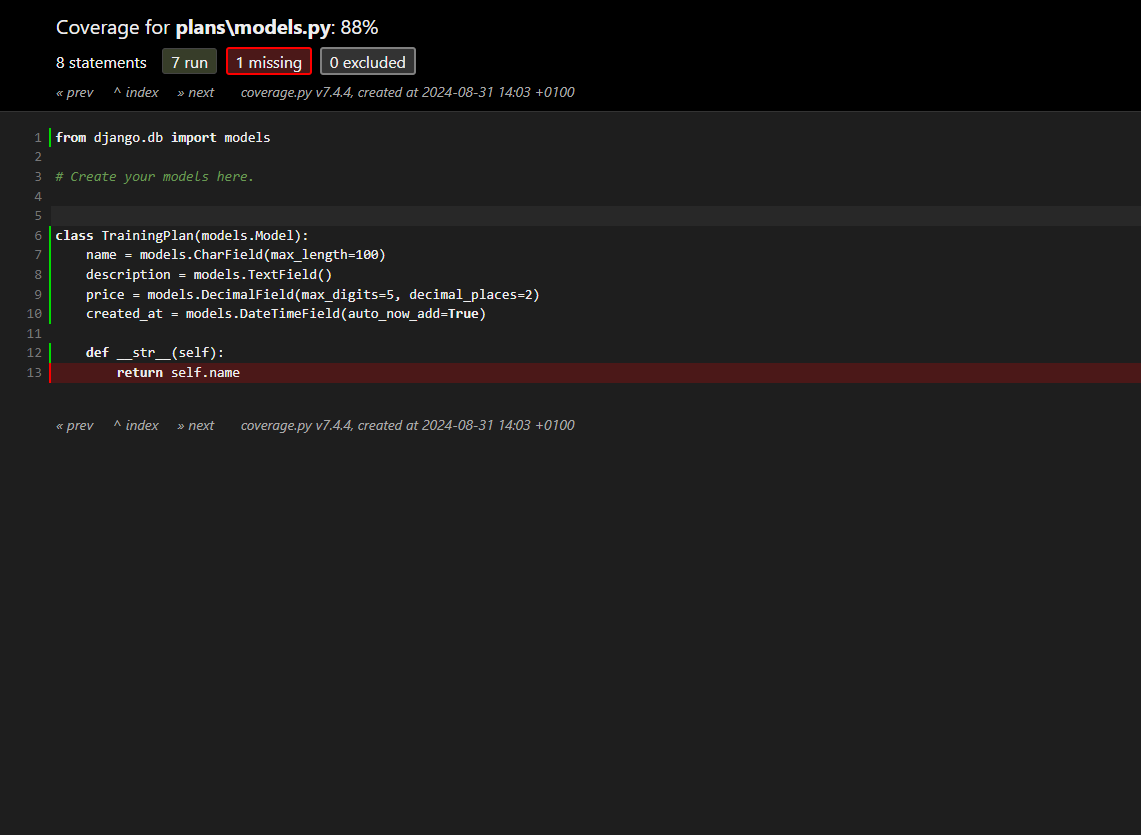
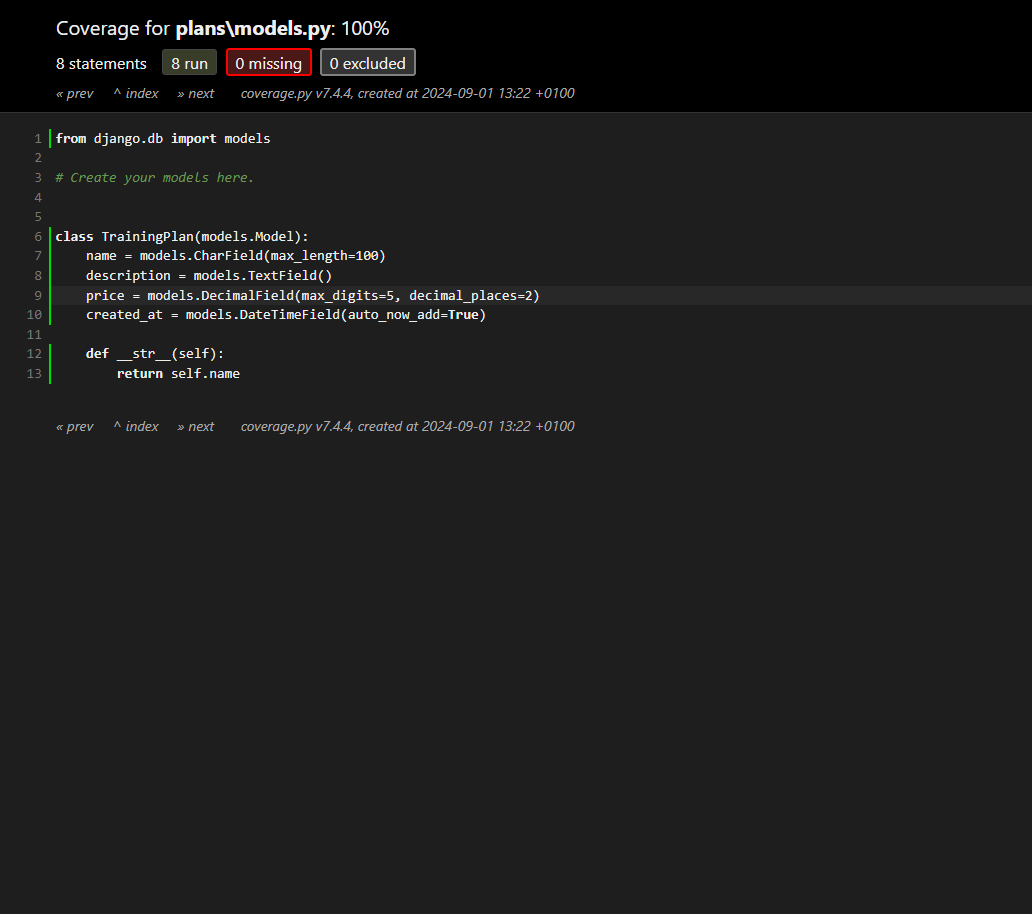
feat: fix plans model testing

Changed region(s): [[0.031, 0.2491, 1.0, 0.5293], [0.0, 0.0, 1.0, 0.218]]

diff --git a/plans/tests/test_models.py b/plans/tests/test_models.py
@@ -1,0 +1,38 @@
+from django.test import TestCase
+from plans.models import TrainingPlan
+
+class TrainingPlanModelTest(TestCase):
+
+    def setUp(self):
+        # Set up a sample TrainingPlan instance
+        self.training_plan = TrainingPlan.objects.create(
+            name="Sample Plan",
+            description="This is a sample training plan description.",
+            price=99.99
+        )
+
+    def test_training_plan_creation(self):
+        # Test if the training plan is created successfully
+        self.assertEqual(self.training_plan.name, "Sample Plan")
+        self.assertEqual(self.training_plan.description, "This is a sample training plan description.")
+        self.assertEqual(self.training_plan.price, 99.99)
+
+    def test_training_plan_string_representation(self):
+        # Test the string representation of the TrainingPlan model
+        self.assertEqual(str(self.training_plan), "Sample Plan")
+
+    def test_name_max_length(self):
+        # Test the max_length constraint on the name field
+        max_length = self.training_plan._meta.get_field('name').max_length
+        self.assertEqual(max_length, 100)
+
+    def test_price_max_digits_and_decimal_places(self):
+        # Test the max_digits and decimal_places constraints on the price field
+        max_digits = self.training_plan._meta.get_field('price').max_digits
+        decimal_places = self.training_plan._meta.get_field('price').decimal_places
+        self.assertEqual(max_digits, 5)
+        self.assertEqual(decimal_places, 2)
+
+    def test_created_at_auto_now_add(self):
+        # Test if created_at is set automatically on creation
+        self.assertIsNotNone(self.training_plan.created_at)

diff --git a/TESTING.md b/TESTING.md
@@ -268,7 +268,7 @@ Below are the results from the various apps on my application that I've tested:
 | home | test_forms.py | 100% | ![screenshot](documentation/testing/automated-testing/python/py-test-home-forms.png)  |
 | home | test_views.py | 100% | ![screenshot](documentation/testing/automated-testing/python/py-test-home-views.png)  |
 | home | test_urls.py | 100% | ![screenshot](documentation/testing/automated-testing/python/py-test-home-urls.png)  |
-| plans | test_models.py | 88% | ![screenshot](documentation/testing/automated-testing/python/py-test-plans-models.png)  |
+| plans | test_models.py | 100% | ![screenshot](documentation/testing/automated-testing/python/py-test-plans-models.png)  |
 | plans | test_views.py | 44% | ![screenshot](documentation/testing/automated-testing/python/py-test-plans-views.png)  |
 | plans | test_urls.py | 100% | ![screenshot](documentation/testing/automated-testing/python/py-test-plans-urls.png)  |
 
